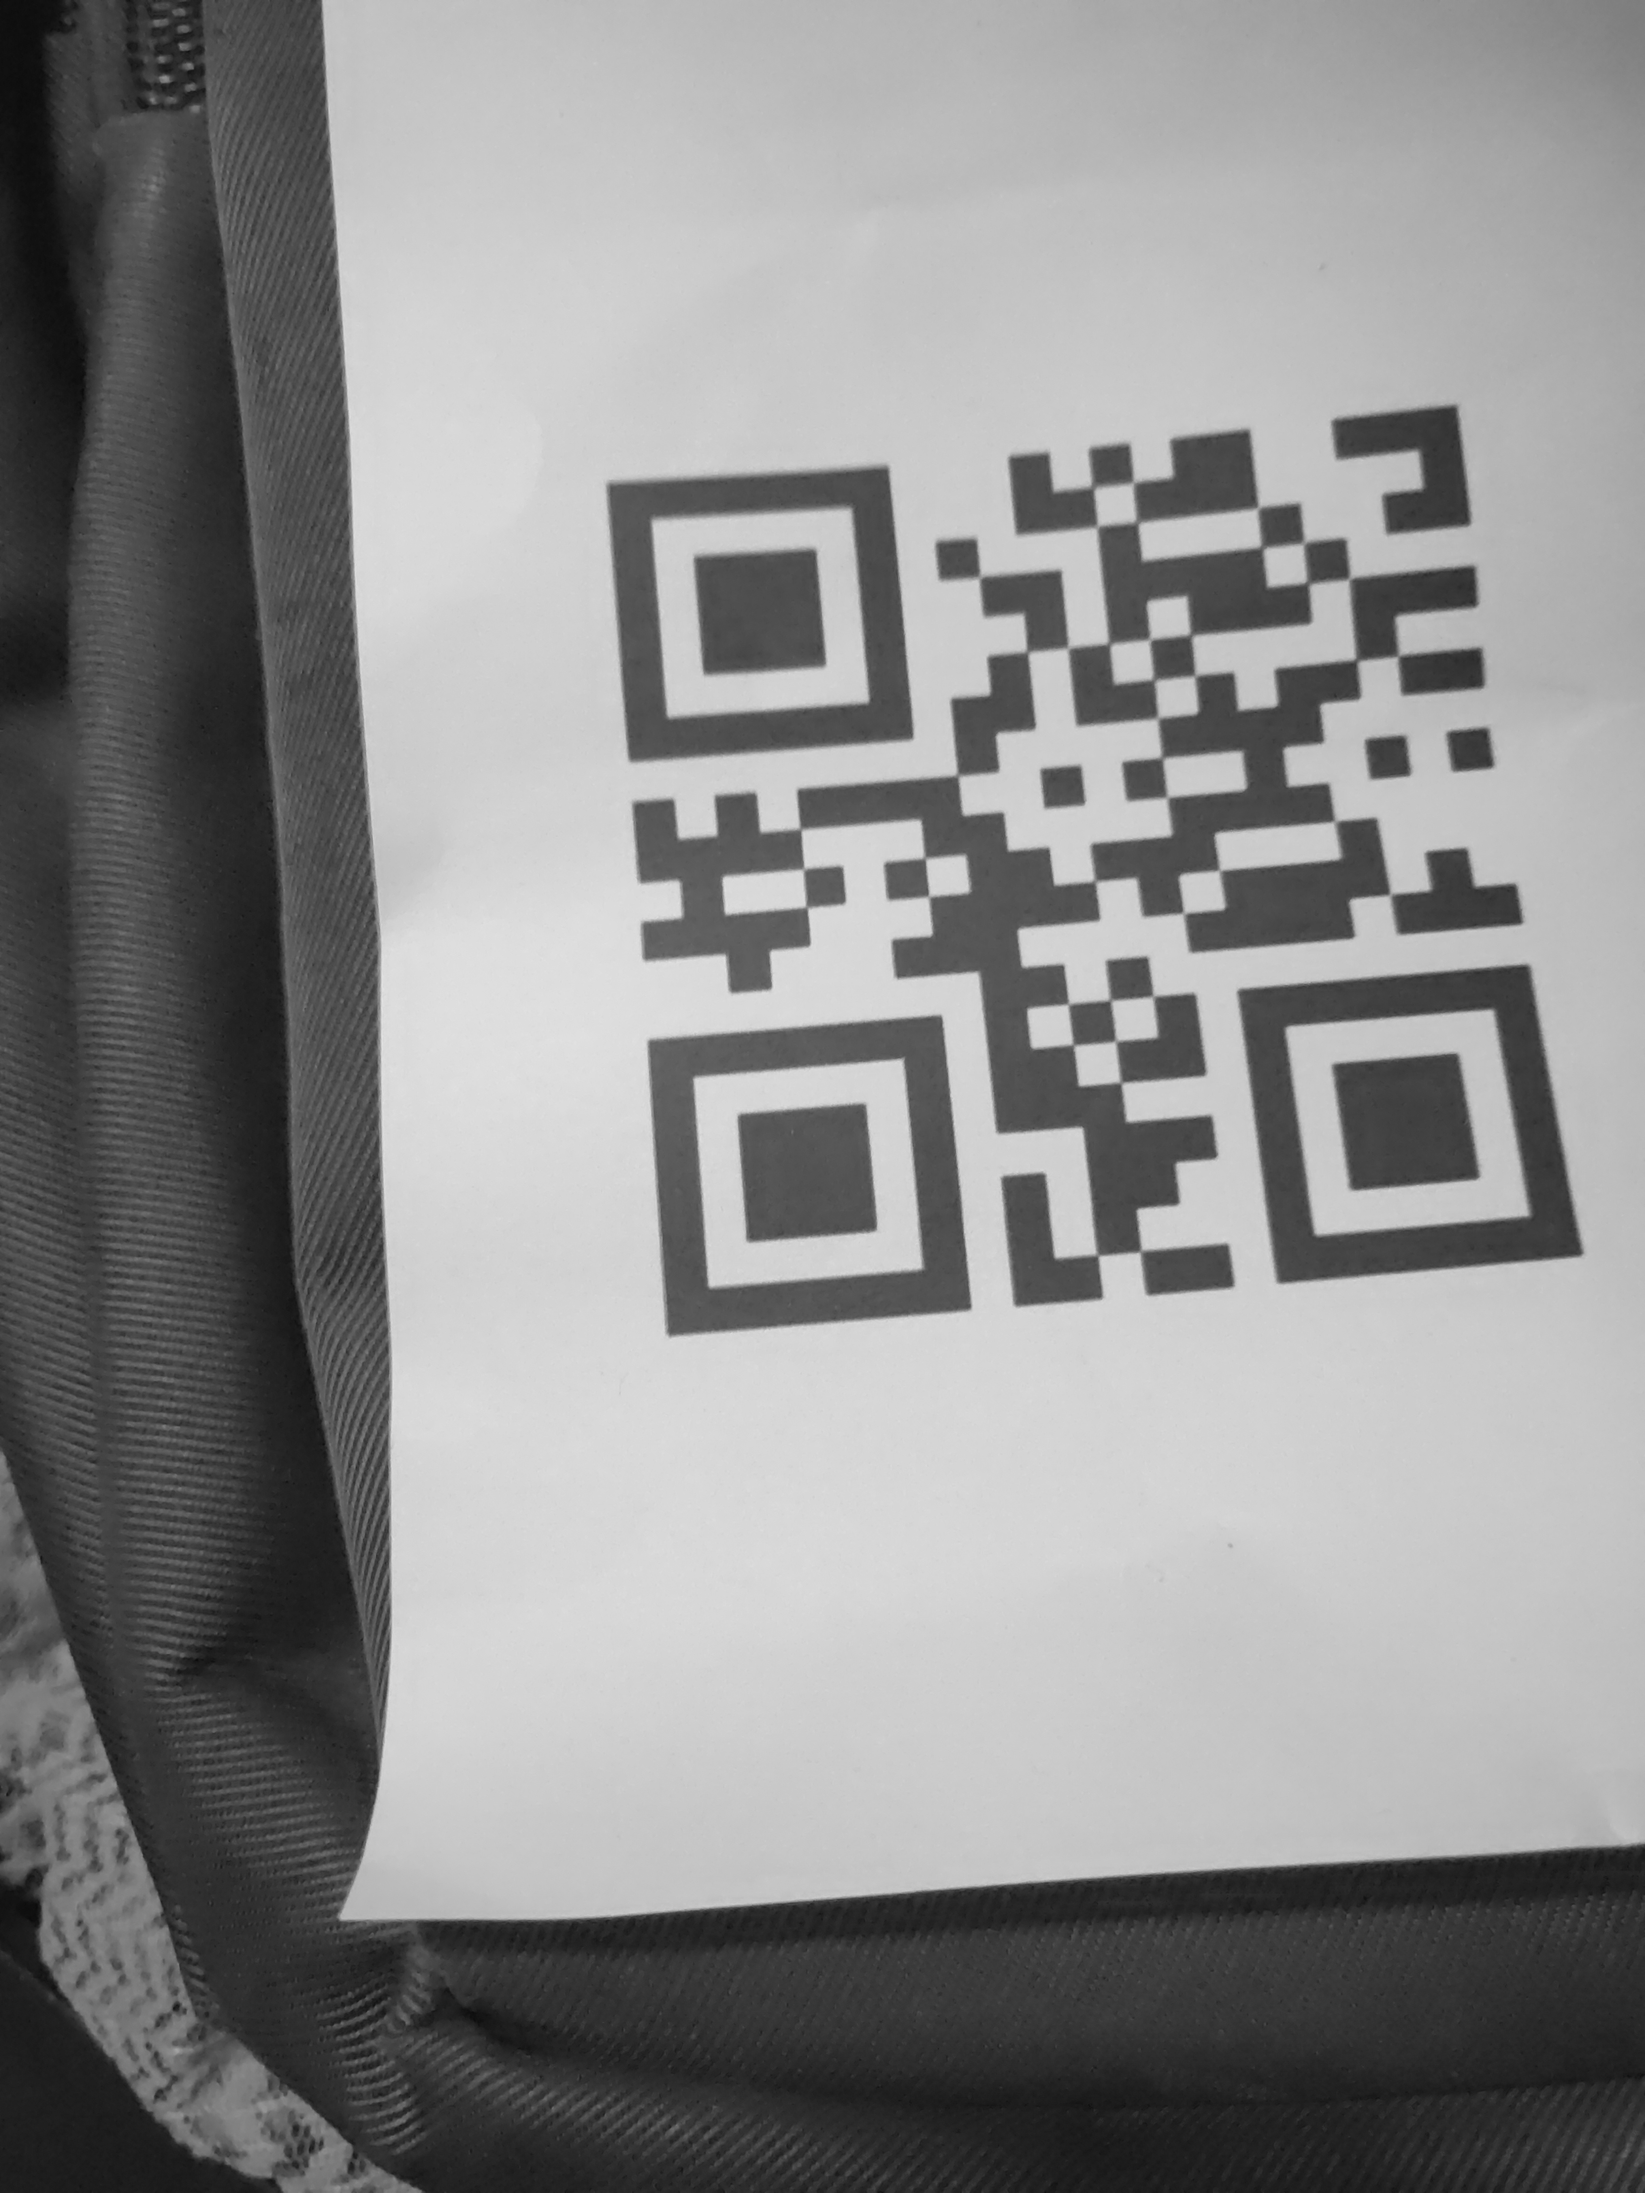
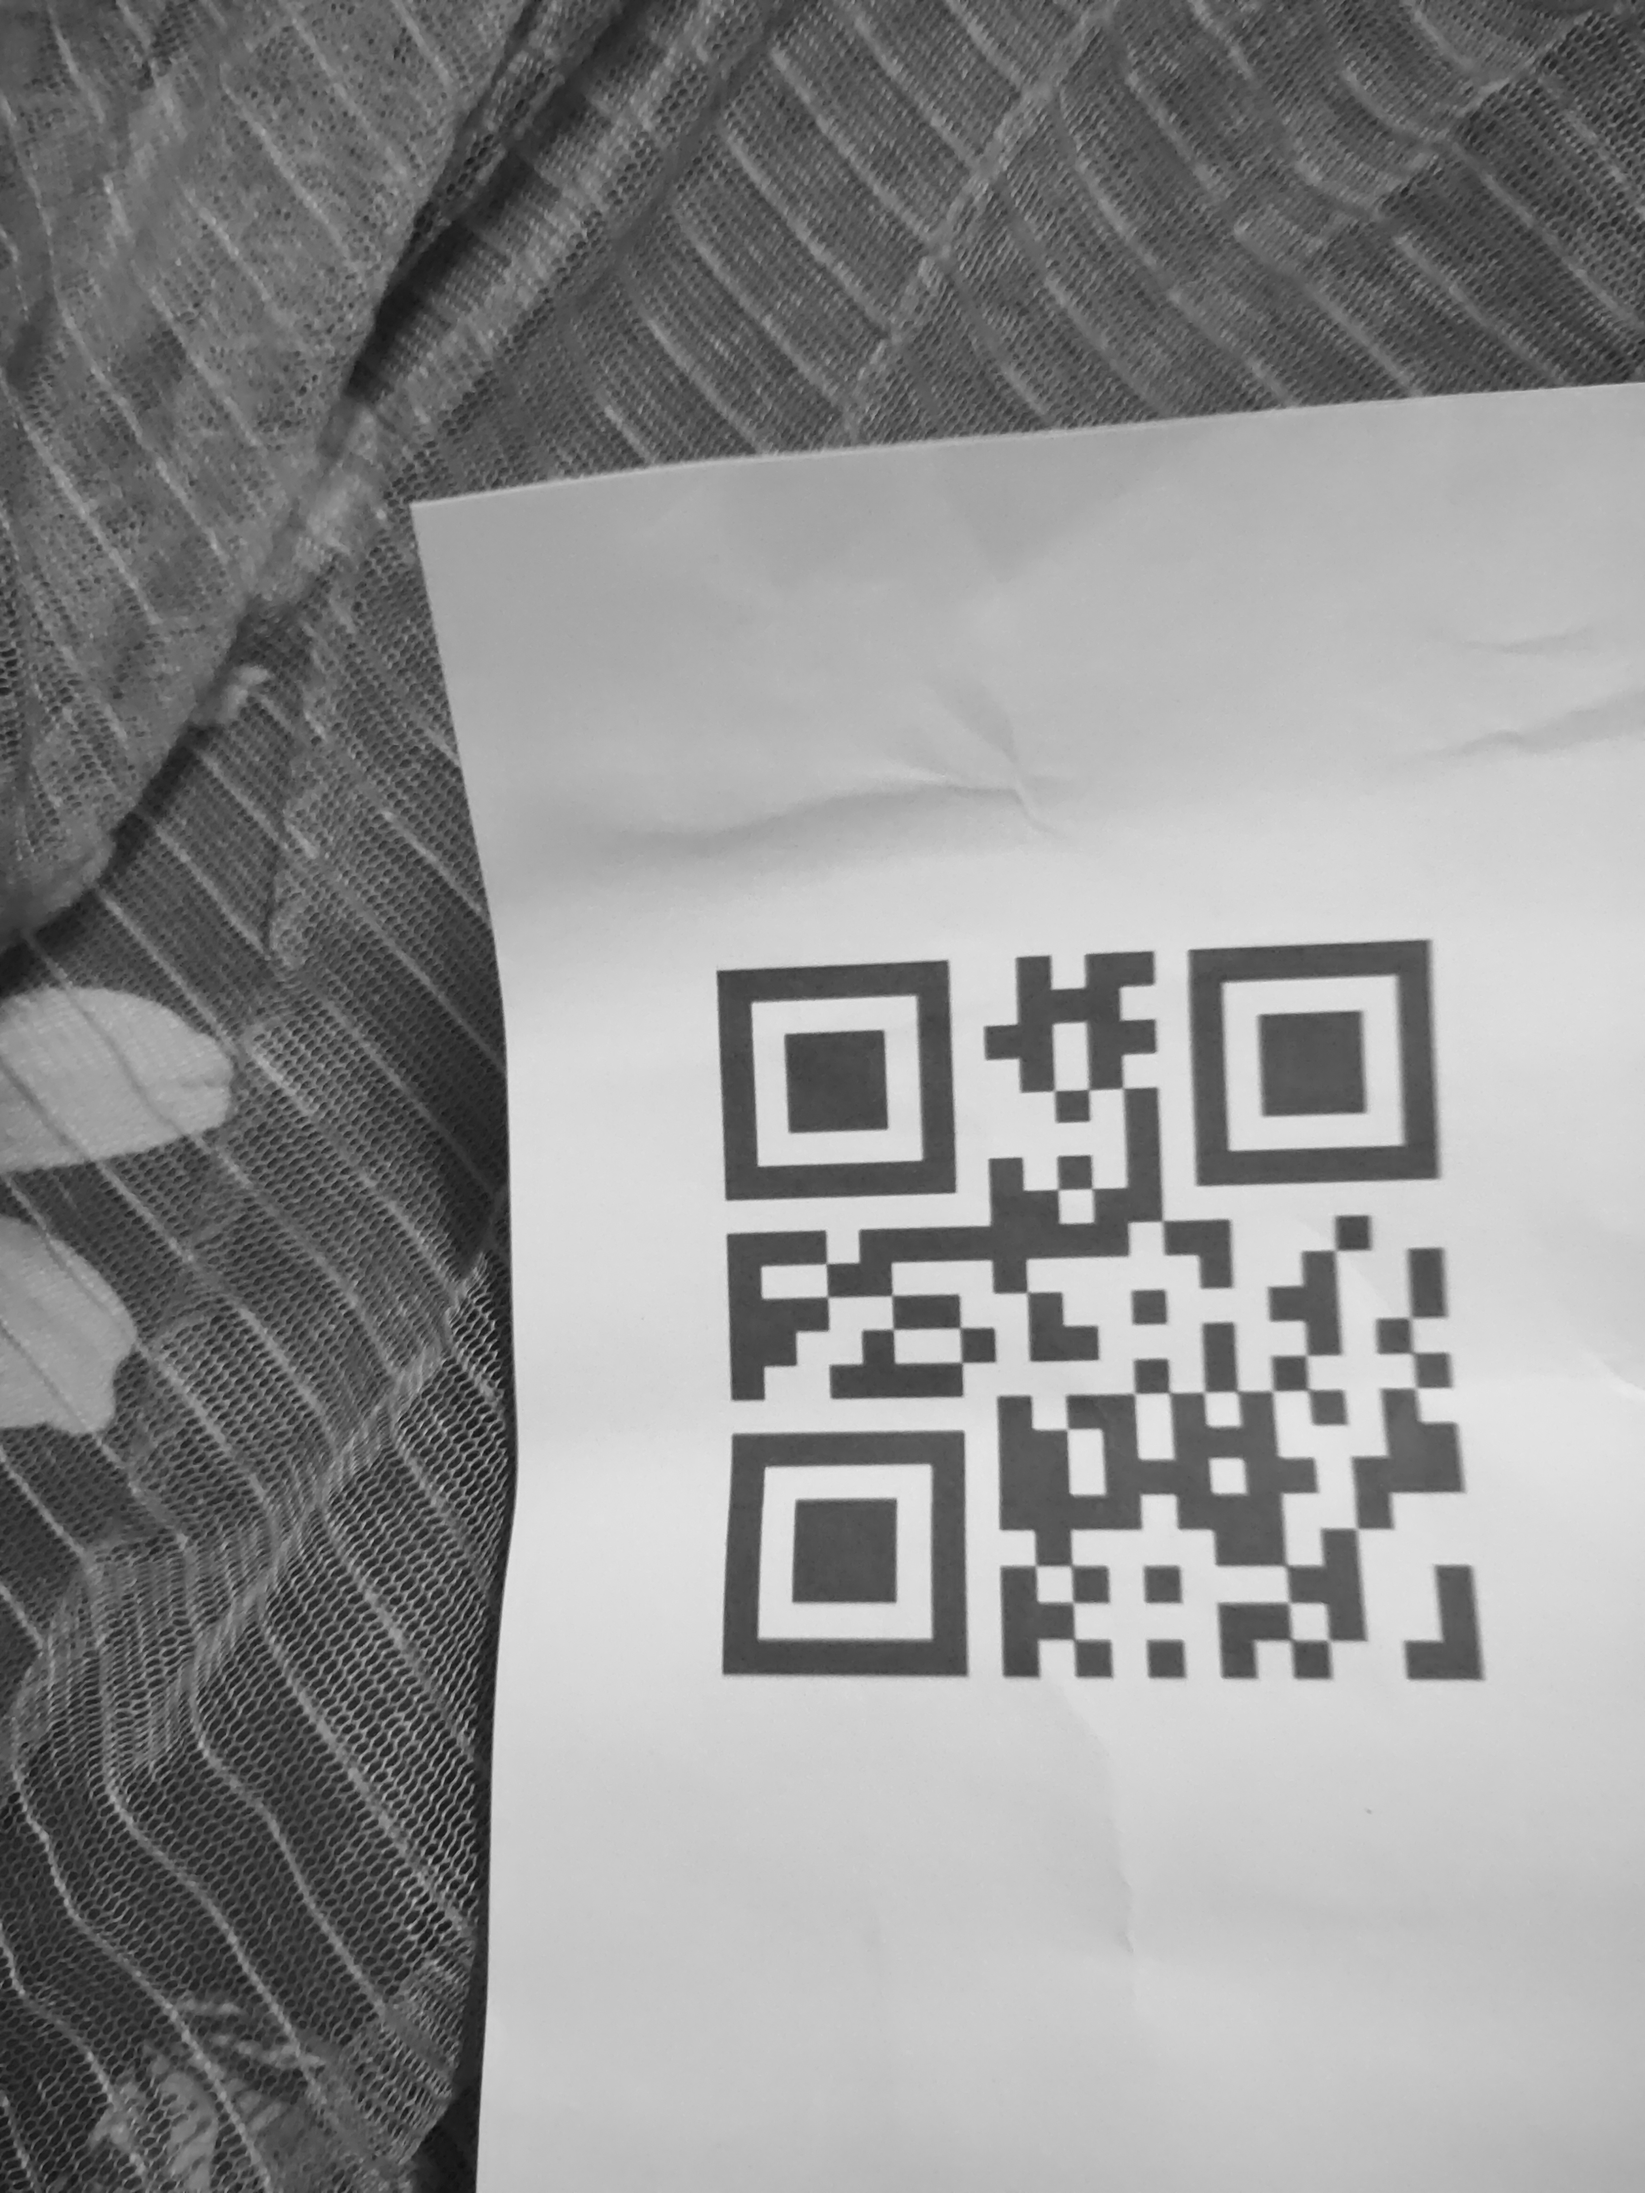
added map decode and instruction send

diff --git a/base/views.py b/base/views.py
@@ -2,18 +2,24 @@ from django.shortcuts import render
 from django.http import HttpResponse
 from django.views.decorators.csrf import csrf_exempt
 from .forms import UploadFileForm
-from .utils import Decoder
+from .utils import Decoder,read_qr_code,Map,Point
+
+from django.http import JsonResponse
+from django.views.decorators.csrf import csrf_exempt
+
 
 # Create your views here.
+found_qrcode = False
+not_found_str = "Could not find the given QR Code"
 
-@csrf_exempt
 def get_instruction(request):
+
     return HttpResponse(
         '''@FBBFFBRLFBRL$'''
     )
 
 
-
+@csrf_exempt
 def evaluate_qr(request):
     if request.method == "POST":
         form = UploadFileForm(request.POST,request.FILES)
@@ -25,3 +31,74 @@ def evaluate_qr(request):
     if request.method == "GET":
         form = UploadFileForm()
         return render(request=request,template_name='base/upload.html',context={"form": form})
+
+class Store:
+    result = "@UUUUSSSSSS$"
+
+    def set(self,x:str):
+        self.result = x
+    def get(self):
+        return self.result
+        
+
+store = Store()
+
+@csrf_exempt
+def upload_image(request):
+    if request.method == 'POST':
+        try:
+            data = request.body
+            with open('uploaded_image.jpg', 'wb') as f:
+                f.write(data)
+            
+            qr_data = read_qr_code('uploaded_image.jpg')
+
+            if(not qr_data):
+                print("No valid data")
+                qr_data.append('3,5')
+
+            if(qr_data):
+                fitem:str = qr_data[0]
+
+                x = int(fitem.split(',')[0])
+                y = int(fitem.split(',')[1])
+
+                m = Map(Point(x,y),
+                [
+                    [0,0,0,0,0,0,0,0,0,0,0,0],
+                    [0,0,0,0,0,0,0,0,0,0,0,0],
+                    [0,0,0,0,0,0,0,0,0,0,0,0],
+                    [0,0,0,0,0,0,0,0,0,0,0,0],
+                    [0,0,0,0,0,0,0,0,0,0,0,0],
+                    [0,0,0,0,0,0,0,0,0,0,0,0],
+                    [0,0,0,0,0,0,0,0,0,0,0,0],
+                    [0,0,0,0,0,0,0,0,0,0,0,0],
+                    [0,0,0,0,0,0,0,0,0,0,0,0],
+                    [0,0,0,0,0,0,0,0,0,0,0,0],
+                    [0,0,0,0,0,0,0,0,0,0,0,0],
+                    [0,0,0,0,0,0,0,0,0,0,0,0],
+                ])
+                m.bfs()
+
+                print(m.path())
+
+                p = (m.transformed_path())
+                while len(p) < 10:
+                    p += 'S'
+
+                p = '@' + p + '$'
+                print(p)
+                # result = p
+                store.set(p)
+                return HttpResponse(p)
+            
+
+            return HttpResponse('Not Found')
+
+        except Exception as e:
+            return JsonResponse({'error': str(e)}, status=400)
+
+    elif(request.method == "GET"):
+        return HttpResponse(store.get())
+    else:
+        return JsonResponse({'error': 'Only POST requests are allowed'}, status=405)

diff --git a/base/urls.py b/base/urls.py
@@ -2,6 +2,7 @@ from django.urls import path
 from . import views
 
 urlpatterns = [
-    path('',view=views.get_instruction, name='get'),
-    path('eval/',views.evaluate_qr,name='evaluate')
+    # path('',view=views.get_instruction, name='get'),
+    path('eval/',views.evaluate_qr,name='evaluate'),
+    path('',views.upload_image ,name='upload'),
 ]

diff --git a/base/utils/decoder.py b/base/utils/decoder.py
@@ -14,6 +14,8 @@ def read_qr_code(image_path):
 
     # Extract data from decoded objects
     qr_codes_data = [obj.data.decode('utf-8') for obj in decoded_objects]
+
+    print(qr_codes_data)
     
     return qr_codes_data
 

diff --git a/base/utils/__init__.py b/base/utils/__init__.py
@@ -1,1 +1,2 @@
-from .decoder import Decoder
+from .decoder import Decoder, read_qr_code
+from .path_finder import Map, Point
